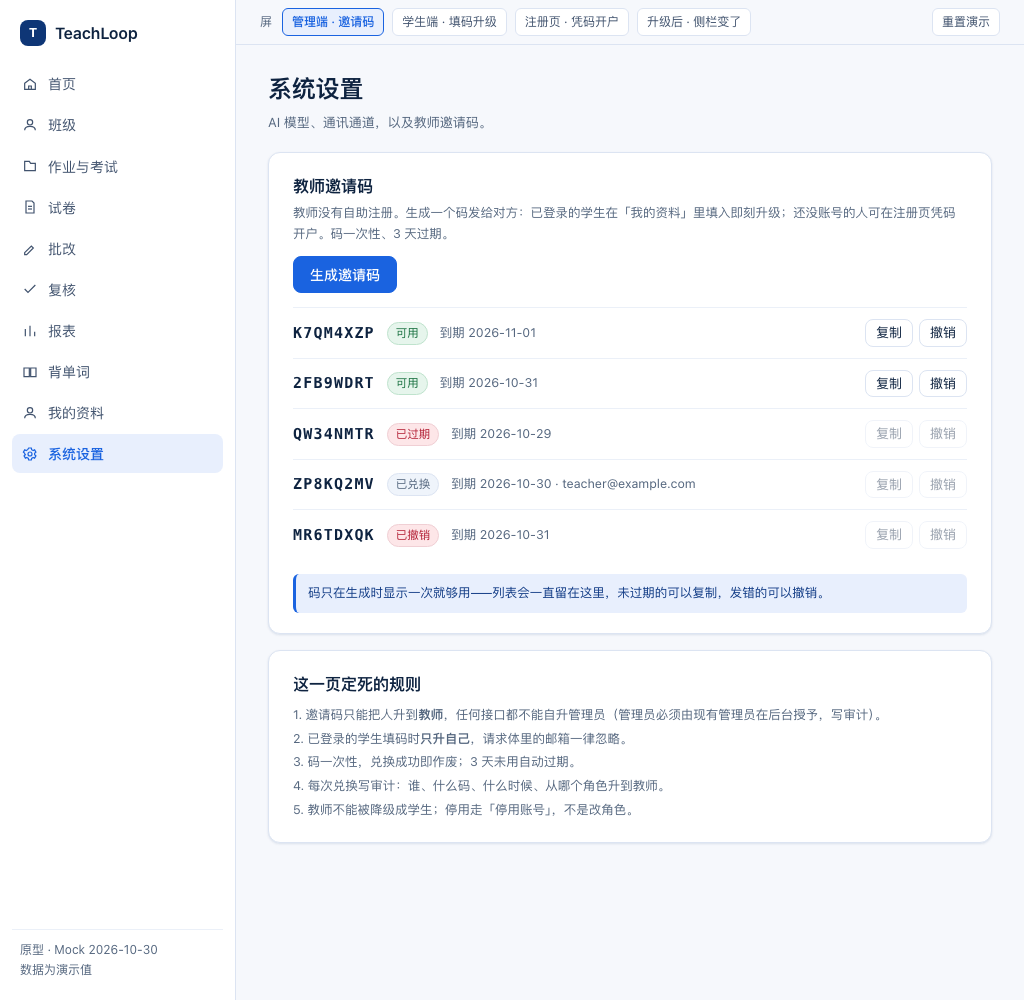
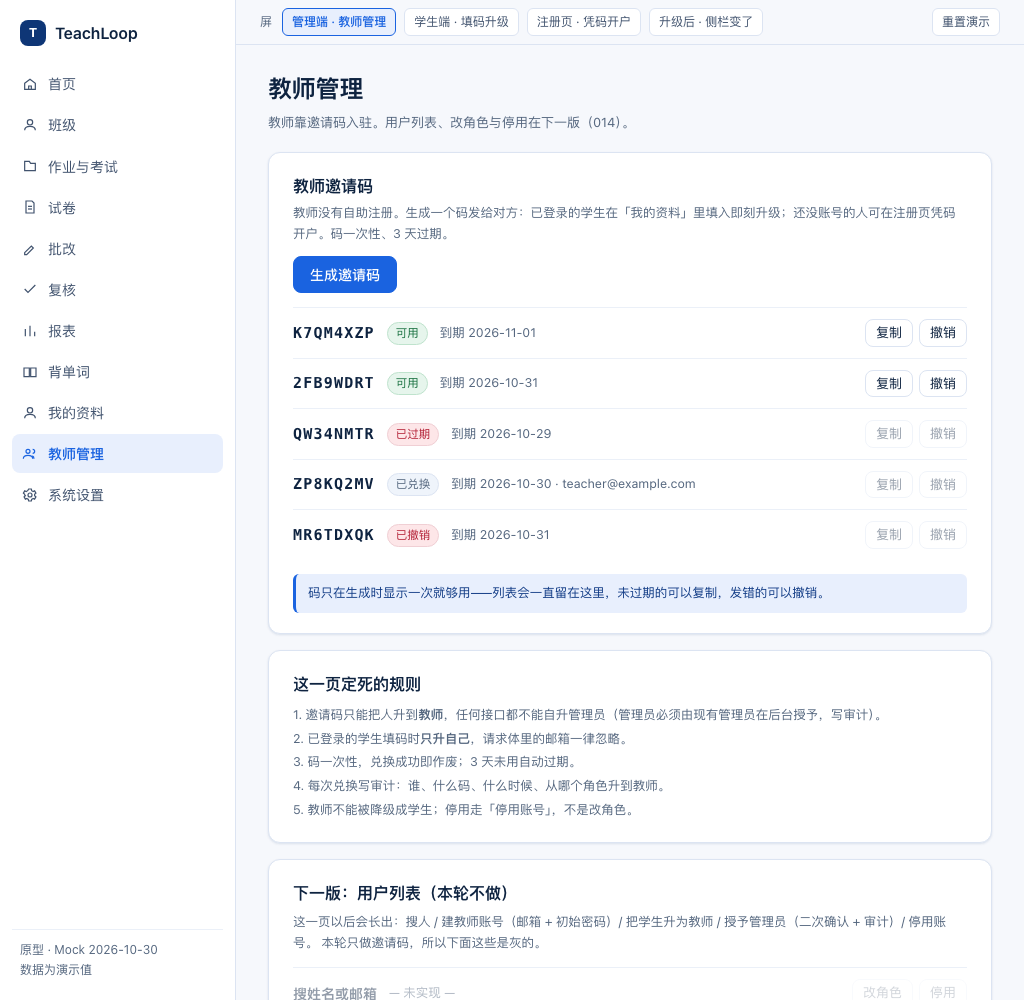
docs(mock): 按拍板结果收口——邀请码单开 /admin/teachers，注册页保留可选字段，升级后即时刷新
2026-10-30 用户三点回答：
1. 单开一页 /admin/teachers（不挂系统设置），侧栏加「教师管理」；
2. 注册页的邀请码保持可选字段；
3. 升级成功后即时刷新侧栏，不要求重新登录。

原型跟着改：第 1 屏改成独立页（页头「教师管理」+ 侧栏选中项），并加一张
「下一版：用户列表（本轮不做）」灰态占位，把这一页的边界画出来；README 换成
已拍板表 + 定稿参数。复测 12 组（4 屏 × 1440/1024/834）overflow 全 0。

diff --git a/docs/mock/teacher-invite-2026-10-30/index.html b/docs/mock/teacher-invite-2026-10-30/index.html
@@ -137,7 +137,7 @@
   <div class="col">
     <div class="top">
       <span class="tag">屏</span>
-      <button data-go="admin">管理端 · 邀请码</button>
+      <button data-go="admin">管理端 · 教师管理</button>
       <button data-go="redeem">学生端 · 填码升级</button>
       <button data-go="register">注册页 · 凭码开户</button>
       <button data-go="after">升级后 · 侧栏变了</button>
@@ -146,11 +146,11 @@
     </div>
 
     <main class="main">
-      <!-- 1. 管理端：系统设置里的教师邀请码区块 -->
+      <!-- 1. 管理端：单开的 /admin/teachers 页（2026-10-30 用户拍板，不挂在系统设置里） -->
       <section class="screen" data-screen="admin">
         <div class="page-head">
-          <h1>系统设置</h1>
-          <div class="sub">AI 模型、通讯通道，以及教师邀请码。</div>
+          <h1>教师管理</h1>
+          <div class="sub">教师靠邀请码入驻。用户列表、改角色与停用在下一版（014）。</div>
         </div>
 
         <div class="card">
@@ -186,6 +186,23 @@
             </div>
           </div>
         </div>
+
+        <div class="card">
+          <div class="card-body">
+            <h2>下一版：用户列表（本轮不做）</h2>
+            <div class="small muted" style="margin-top:6px">
+              这一页以后会长出：搜人 / 建教师账号（邮箱 + 初始密码）/ 把学生升为教师 / 授予管理员（二次确认 + 审计）/ 停用账号。
+              本轮只做邀请码，所以下面这些是灰的。
+            </div>
+            <div class="invite-list">
+              <div class="invite-row" style="opacity:.45">
+                <span style="font-weight:600">搜姓名或邮箱</span>
+                <span class="meta">— 未实现 —</span>
+                <span class="ops"><button class="btn sm" disabled>改角色</button><button class="btn sm" disabled>停用</button></span>
+              </div>
+            </div>
+          </div>
+        </div>
       </section>
 
       <!-- 2. 学生端：我的资料里填码升级 -->
@@ -217,7 +234,7 @@
                 <label for="redeem-code">邀请码<span class="req">*</span></label>
                 <input id="redeem-code" maxlength="8" placeholder="例如 K7QM4XZP" autocomplete="off"
                        style="text-transform:uppercase; font-family:ui-monospace,Menlo,monospace; letter-spacing:1.2px">
-                <div class="help">演示：先在「管理端 · 邀请码」里生成一个码，或直接输 <b>K7QM4XZP</b>。</div>
+                <div class="help">演示：先在「教师管理」页生成一个码，或直接输 <b>K7QM4XZP</b>。</div>
                 <div class="err" id="redeem-err" hidden></div>
               </div>
               <div class="row" style="margin-top:16px">
@@ -310,7 +327,7 @@
     ['home', '首页'], ['classes', '班级'], ['assignments', '作业与考试'], ['papers', '试卷'],
     ['grading', '批改'], ['review', '复核'], ['reports', '报表'], ['vocab', '背单词'], ['profile', '我的资料']
   ]
-  var NAV_ADMIN = NAV_TEACHER.concat([['ai', '系统设置']])
+  var NAV_ADMIN = NAV_TEACHER.concat([['teachers', '教师管理'], ['ai', '系统设置']])
 
   var state = {
     role: 'STUDENT',
@@ -390,6 +407,7 @@
       case 'grading': return '<path d="M4 19l10-10 3 3-10 10H4z"/>'
       case 'review': return '<path d="M4 12l5 5L20 6"/>'
       case 'reports': return '<path d="M5 20V9"/><path d="M12 20V4"/><path d="M19 20v-7"/>'
+      case 'teachers': return '<path d="M9 11a3 3 0 100-6 3 3 0 000 6z"/><path d="M2 19c0-3 3-5 7-5s7 2 7 5"/><path d="M16 11a3 3 0 100-6"/><path d="M18 19c0-2-1-3.4-2.6-4.2"/>'
       default: return '<path d="M12 15a3 3 0 100-6 3 3 0 000 6z"/><path d="M19 12a7 7 0 01-.1 1.2l2 1.6-2 3.4-2.3-1a7 7 0 01-2 1.2L14 21h-4l-.6-2.6a7 7 0 01-2-1.2l-2.3 1-2-3.4 2-1.6A7 7 0 014 12c0-.4 0-.8.1-1.2l-2-1.6 2-3.4 2.3 1a7 7 0 012-1.2L10 3h4l.6 2.6a7 7 0 012 1.2l2.3-1 2 3.4-2 1.6c.1.4.1.8.1 1.2z"/>'
     }
   }
@@ -438,7 +456,7 @@
     $$('.screen').forEach(function (s) { s.hidden = s.getAttribute('data-screen') !== name })
     $$('.top [data-go]').forEach(function (b) { b.classList.toggle('on', b.getAttribute('data-go') === name) })
     // 每一屏看的是不同身份：管理端=管理员，填码=当前身份，注册页=公开页（无壳层），升级后=教师
-    if (name === 'admin') { state.navRole = 'ADMIN'; state.activeNav = 'ai' }
+    if (name === 'admin') { state.navRole = 'ADMIN'; state.activeNav = 'teachers' }
     else if (name === 'after') { state.role = 'TEACHER'; state.navRole = 'TEACHER'; state.activeNav = 'home' }
     else if (name === 'redeem') {
       state.navRole = state.role === 'TEACHER' ? 'TEACHER' : 'STUDENT'

diff --git a/docs/mock/teacher-invite-2026-10-30/README.md b/docs/mock/teacher-invite-2026-10-30/README.md
@@ -3,21 +3,29 @@
 对应需求：教师入驻走邀请码（承接 `AC-3.2`）、`AC-3.3` 改成「真升级、只能升自己」。
 单文件、无依赖、无构建：**双击 `index.html` 就能点**。演示数据全部是假的（侧栏底部有标注）。
 
+## 已拍板（2026-10-30，用户三点回答）
+
+| 问题 | 决定 | 落在哪 |
+| :--- | :--- | :--- |
+| 邀请码界面放哪 | **单开 `/admin/teachers` 一页**，侧栏加「教师管理」 | 本原型的第 1 屏；用户列表/改角色 014 也进这一页 |
+| 注册页上的码 | **可选字段**（填了建教师、不填建学生） | 第 3 屏；`AC-73.9` 要补一句例外 |
+| 升级后怎么变 | **即时刷新，不用重新登录** | 第 4 屏；实现要给 `features.tsx` 的 effect 补 `me?.role` 依赖 |
+
 ## 这一版在回答什么
 
-1. **管理端那块放哪、长什么样**：放在系统设置页里的一个区块（`/admin/ai` 现在就是"系统设置"枢纽，通讯通道也挂在那儿），不新开页面。
-2. **码是一次性弹窗还是常驻列表**：常驻列表 + 未过期可复制 / 发错可撤销。只弹一次的码，刷新后管理员自己都找不回来（今天 `GET /api/admin/teacher-invites` 还不存在）。
-3. **学生端入口放哪**：`/profile` 资料卡下面独立一块「我有教师邀请码」，不是塞进资料表单里。
-4. **两条腿都要有**：已登录的学生填码升自己；还没账号的新老师可在注册页凭码开户（否则"真升级"意味着老师必须先装作学生注册一次）。
-5. **升级后要不要重新登录**：不要。侧栏立刻变（切换「升级后」那一屏看）。
+1. **`/admin/teachers` 长什么样**：上面是邀请码（生成 / 列表 / 复制 / 撤销），下面是「下一版：用户列表」的占位，让人一眼看出这页以后会长成什么。
+2. **码是常驻列表而不是只弹一次**：今天只有 `POST /api/admin/teacher-invites`（`AdminEndpoint.java:34`），没有 GET，生成后刷新就再也找不回码；列表要配一条 GET。
+3. **学生端入口在 `/profile` 资料卡下面独立一块**，不是塞进资料表单。
+4. **两条腿都要有**：已登录学生填码升自己；还没账号的新老师可在注册页凭码开户 —— 否则「真升级」意味着老师必须先装作学生注册一次。
+5. **升级后侧栏当场变**（第 4 屏），并给出成功提示。
 
 ## 屏与深链
 
 | 屏 | 深链 | 重点看什么 |
 | :--- | :--- | :--- |
-| 管理端 · 邀请码 | `#admin` | 生成 / 列表（可用·已兑换·已过期·已撤销）/ 复制 / 撤销；下面一块把 5 条规则写死 |
+| 管理端 · 教师管理 | `#admin` | `/admin/teachers`：生成 / 列表（可用·已兑换·已过期·已撤销）/ 复制 / 撤销；底部「下一版：用户列表（本轮不做）」灰态占位 |
 | 学生端 · 填码升级 | `#redeem` | 输入 8 位码 → 成功态 + 侧栏当场变成教师；四种失败文案（无效 / 已过期 / 已兑换 / 已撤销） |
-| 注册页 · 凭码开户 | `#register` | 公开页无壳层；邀请码是**可选字段**，填了建教师账号、不填建学生 |
+| 注册页 · 凭码开户 | `#register` | 公开页无壳层；邀请码是**可选字段** |
 | 升级后 | `#after` | 侧栏多出教师菜单（带「新」标）+ 顶部成功提示 |
 
 演示码：`K7QM4XZP`（可用）、`2FB9WDRT`（可用）；其余三条分别演示「已过期 / 已兑换 / 已撤销」。
@@ -27,6 +35,7 @@
 
 | 项 | 值 | 说明 |
 | :--- | :--- | :--- |
+| 路由 | `/admin/teachers` | 单开一页；侧栏项 label「教师管理」，图标一组人 |
 | 码形 | 8 位，去掉易混字符（无 `0/O/1/I`） | 与后端 `AdminService.newCode()` 的字母表一致 |
 | 有效期 | 3 天 | 后端 `createTeacherInvite(me.id(), 3)` 已经是这个值 |
 | 归属 | 生成它的管理员 | `TeacherInvite.createdBy` 已有 |
@@ -34,14 +43,15 @@
 | 列表 | 常驻，含状态与兑换人 | 需要补 `GET /api/admin/teacher-invites`（今天只有 POST） |
 | 升级语义 | 登录态 → 只升自己，忽略请求体邮箱 | `AC-3.3` 新语义；非 STUDENT 返回 409 |
 | 未登录 | 码 + 邮箱 + 密码 → 建 TEACHER | 旧路径保留，同一个码、同样一次性 |
-| 提权边界 | 码只能升到 TEACHER，永不 ADMIN | `AC-3.5` 不变；管理员由管理员在后台授予（下一份 spec，014） |
+| 提权边界 | 码只能升到 TEACHER，永不 ADMIN | `AC-3.5` 不变；管理员由管理员在后台授予（014） |
 | 审计 | 每次成功兑换写一条 | 谁 / 什么码 / 何时 / 从哪个角色 |
+| 升级后 | 即时刷新，不重登 | `features.tsx` 的 effect 依赖要加 `me?.role` |
 
-## 这一版需要你拍的三件事
+## 注意 / 取舍
 
-1. **管理端位置**：放「系统设置」页里的区块（本原型）还是单开 `/admin/teachers`？前者省一个路由，后者以后好加「用户列表 + 改角色」。
-2. **注册页的码**：做成可选字段（本原型）还是单独一个「我有教师邀请码」入口页？字段少一步，入口更显眼。
-3. **升级后是否立刻刷新菜单**：本原型是「立刻变、不用重新登录」。实现上要顺手把 `web/src/api/features.tsx` 的 effect 依赖加上 `me?.role`，否则侧栏不重取（现在只依赖 `me?.id`）。
+- 平板（≤1023）把侧栏收成抽屉，原型里直接收起 —— 与 `web/src/styles/app.css` 同一个断点，不自造第三档；实测三档无横向溢出。
+- 不做二维码、不做一键发送（没有可用 IM 通道）、不做批量生成：码走复制粘贴，一个人一天发不出十张。
+- 「下一版：用户列表」是**灰态占位**，只用来告诉 review 这页的边界，本轮不实现。
 
 ## 截图
 
@@ -60,9 +70,3 @@ done
 ```
 
 平板两档（834×1194 / 1024×1366）实测无横向溢出：`scrollWidth - innerWidth = 0`（四屏 × 三档全部 0）。
-
-## 取舍
-
-- 平板（≤1023）把侧栏收成抽屉，原型里直接收起 —— 与 `web/src/styles/app.css` 同一个断点，不自造第三档。
-- 邀请码不做二维码、不做一键发送（没有可用的 IM 通道）；复制到剪贴板后由管理员自己发。
-- 不做「批量生成」：一个人一天发不出十张码，批量是替没出现的场景造功能。
